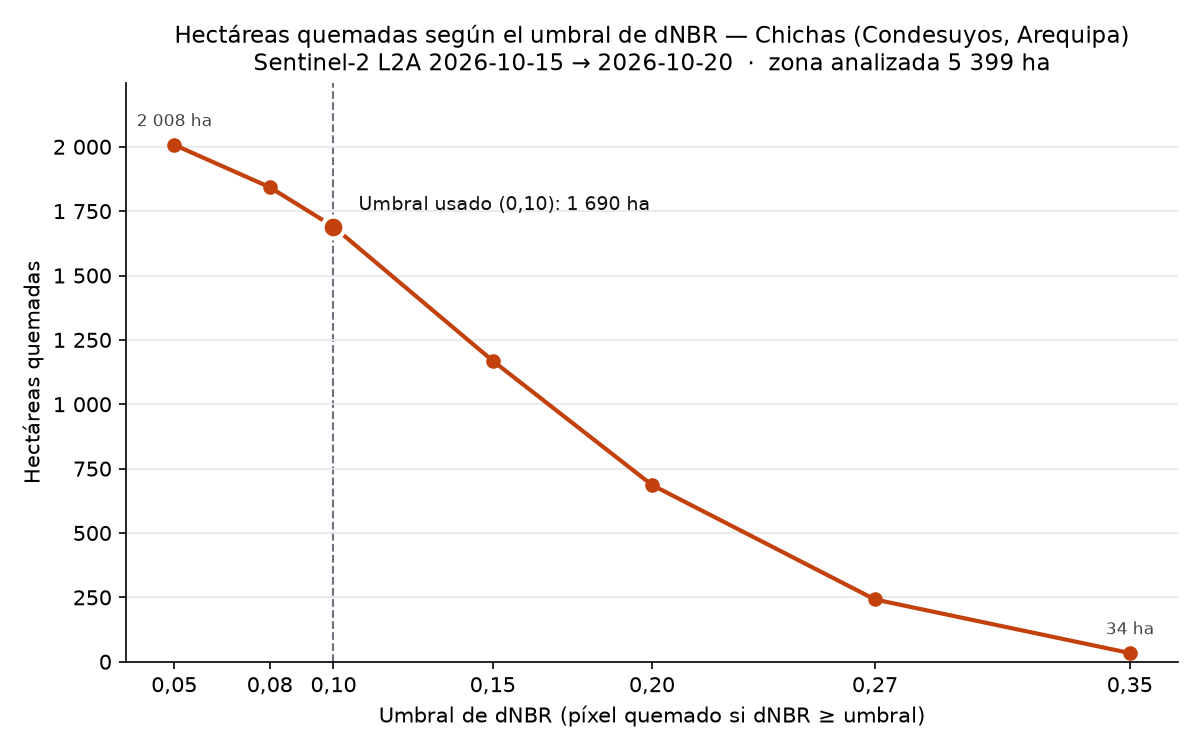
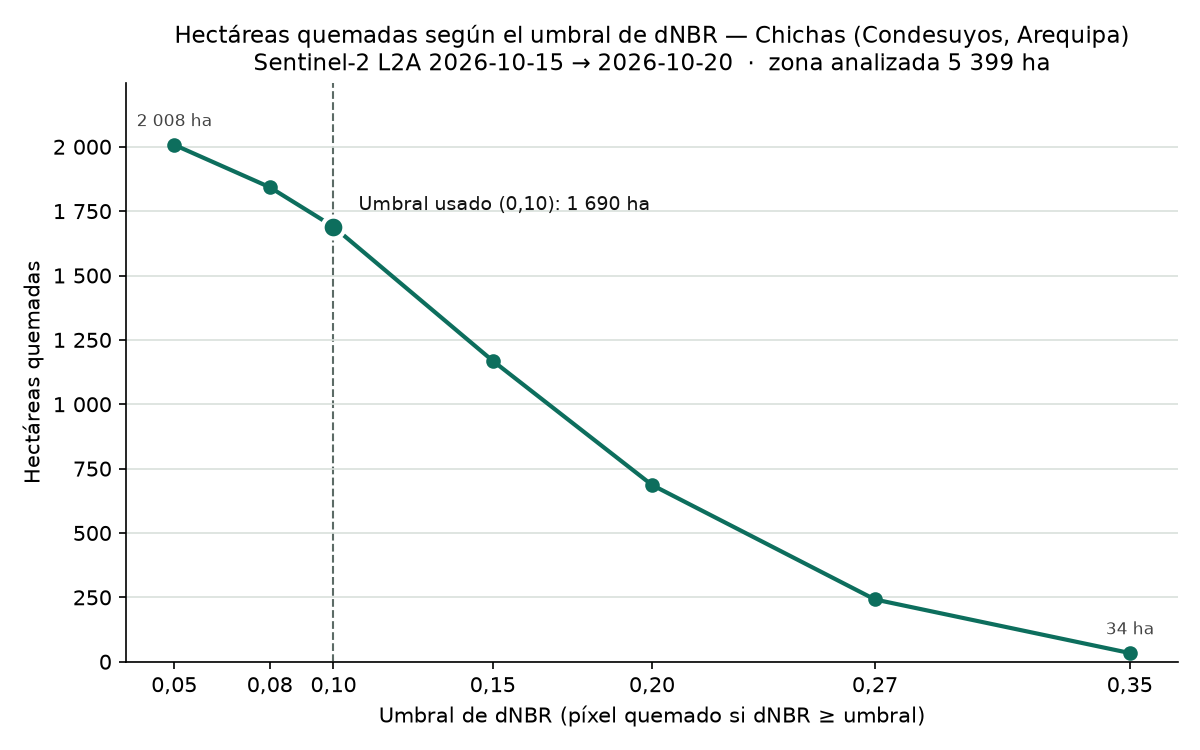
Parte 4: paleta nueva, modo oscuro, gráficos SVG en línea y mapa con los colores de severidad

diff --git a/index.html b/index.html
@@ -4,78 +4,84 @@
 <meta charset="utf-8">
 <meta name="viewport" content="width=device-width, initial-scale=1">
 <title>¿Qué se quemó? · Chichas, Arequipa</title>
-<meta name="description" content="De 8 637 focos de calor en el Perú a 1 690 hectáreas medidas en Chichas, Arequipa: qué tipo de suelo ardió.">
+<meta name="description" content="De 8 637 focos de calor en el Perú a 1 690 hectáreas medidas en Chichas, Arequipa: qué tipo de suelo ardió y si la zona arde cada año.">
 <style>
   :root {
-    --bg: #f7f3ec;
-    --text: #1a1613;
-    --muted: #5e554d;
-    --accent: #c0462a;
-    --blue: #2d5f7c;
-    --card: #fffdf9;
-    --line: #e2d9cc;
-    --highlight: #f6e3db;
-    --header-bg: #1a1613;
-    --header-text: #f7f3ec;
-    --sev-baja: #fde725;
-    --sev-modbaja: #fd8d3c;
-    --sev-modalta: #e31a1c;
-    --sev-alta: #67000d;
+    --bg: #f2f5f2;
+    --fg: #14201d;
+    --muted: #5c6b66;
+    --card: #ffffff;
+    --line: #d9e0dc;
+    --accent: #0d6e5d;
+    --accent2: #a85c32;
+    --on-accent: #ffffff;
+    --highlight: #dcebe6;
+    --header-bg: #14201d;
+    --header-fg: #f2f5f2;
+    --header-muted: #b6c4be;
+    --sev-baja: #f2d024;
+    --sev-modbaja: #f08c3a;
+    --sev-modalta: #d93a1f;
+    --sev-alta: #6e1708;
   }
   @media (prefers-color-scheme: dark) {
     :root {
-      --bg: #1a1613;
-      --text: #efe8dd;
-      --muted: #b3a89b;
-      --accent: #e0694c;
-      --blue: #7fb0cf;
-      --card: #24201c;
-      --line: #3a332d;
-      --highlight: #3b2620;
-      --header-bg: #0f0d0b;
-      --header-text: #f7f3ec;
+      --bg: #0e1715;
+      --fg: #e4ebe8;
+      --muted: #9aaba5;
+      --card: #16221f;
+      --line: #2a3a35;
+      --accent: #45b39d;
+      --accent2: #d98c5f;
+      --on-accent: #0e1715;
+      --highlight: #1b332d;
+      --header-bg: #14201d;
+      --header-fg: #f2f5f2;
+      --header-muted: #b6c4be;
     }
   }
   * { box-sizing: border-box; }
-  html { -webkit-text-size-adjust: 100%; }
+  html { -webkit-text-size-adjust: 100%; color-scheme: light dark; }
   body {
     margin: 0;
     background: var(--bg);
-    color: var(--text);
+    color: var(--fg);
     font-family: system-ui, -apple-system, "Segoe UI", Roboto, "Helvetica Neue", Arial, sans-serif;
     font-size: 17px;
     line-height: 1.6;
   }
   .wrap { max-width: 920px; margin: 0 auto; padding: 0 16px; }
-  header.top { background: var(--header-bg); color: var(--header-text); padding: 56px 0 44px; }
+  header.top { background: var(--header-bg); color: var(--header-fg); padding: 56px 0 44px; border-bottom: 1px solid var(--line); }
   header.top h1 { font-size: clamp(2.2rem, 7vw, 3.6rem); line-height: 1.05; margin: 0 0 16px; letter-spacing: -0.02em; }
-  header.top .bajada { font-size: clamp(1.05rem, 2.6vw, 1.3rem); max-width: 40em; margin: 0 0 22px; opacity: 0.92; }
-  header.top .firma { font-size: 0.9rem; color: #d9cfc1; border-top: 2px solid var(--accent); padding-top: 10px; display: inline-block; margin: 0; }
+  header.top .bajada { font-size: clamp(1.05rem, 2.6vw, 1.3rem); max-width: 40em; margin: 0 0 22px; }
+  header.top .firma { font-size: 0.9rem; color: var(--header-muted); border-top: 2px solid #45b39d; padding-top: 10px; display: inline-block; margin: 0; }
   main { padding-bottom: 32px; }
   section { padding: 36px 0 8px; }
   h2 { font-size: 1.5rem; line-height: 1.25; margin: 0 0 14px; }
   h2 .num { color: var(--accent); font-variant-numeric: tabular-nums; margin-right: 6px; }
   h3 { font-size: 1.08rem; margin: 0 0 6px; }
   p { margin: 0 0 14px; }
+  a { color: var(--accent); }
   .muted { color: var(--muted); }
   .cards { display: grid; grid-template-columns: repeat(auto-fit, minmax(240px, 1fr)); gap: 14px; margin: 20px 0 8px; }
   .card { background: var(--card); border: 1px solid var(--line); border-radius: 10px; padding: 18px; }
   .card .big { font-size: 2.4rem; font-weight: 750; line-height: 1.05; color: var(--accent); font-variant-numeric: tabular-nums; margin-bottom: 8px; }
   .card p { margin: 0; font-size: 0.95rem; }
-  .card.method h3 { color: var(--blue); }
+  .card.method h3 { color: var(--accent2); }
   figure { margin: 18px 0 0; }
   figure img { width: 100%; height: auto; display: block; border-radius: 8px; border: 1px solid var(--line); background: #fff; }
-  svg.chart { width: 100%; height: auto; display: block; background: var(--card); border: 1px solid var(--line); border-radius: 8px; }
+  .chart-scroll { overflow-x: auto; background: var(--card); border: 1px solid var(--line); border-radius: 8px; }
+  svg.chart { width: 100%; min-width: 540px; max-width: 760px; height: auto; display: block; margin: 0 auto; }
   svg.chart .grid { stroke: var(--line); stroke-width: 1; }
   svg.chart .ref { stroke: var(--muted); stroke-width: 1; stroke-dasharray: 4 4; }
-  svg.chart text { fill: var(--muted); font-size: 12px; font-family: inherit; }
-  svg.chart text.lbl { fill: var(--text); font-size: 13px; font-weight: 600; }
-  svg.chart text.axis { font-size: 13px; }
+  svg.chart text { fill: var(--muted); font-size: 13px; font-family: inherit; }
+  svg.chart text.lbl { fill: var(--fg); font-size: 14px; font-weight: 600; }
+  svg.chart text.axis { font-size: 14px; }
   svg.chart .bar { fill: var(--accent); }
-  svg.chart .bar.b2026 { fill: var(--blue); }
+  svg.chart .bar.b2026 { fill: var(--accent2); }
   svg.chart .hit { fill: transparent; }
-  svg.chart text.val { font-size: 11px; }
-  svg.chart text.val.strong { fill: var(--text); font-weight: 700; font-size: 13px; }
+  svg.chart text.val { font-size: 12px; }
+  svg.chart text.val.strong { fill: var(--fg); font-weight: 700; font-size: 14px; }
   svg.chart .line { fill: none; stroke-width: 2; }
   svg.chart .s1 { stroke: var(--accent); }
   svg.chart .dot.s1 { fill: var(--accent); stroke: var(--card); stroke-width: 2; }
@@ -85,20 +91,21 @@
   th, td { padding: 8px 10px; border-bottom: 1px solid var(--line); text-align: left; vertical-align: middle; }
   th { font-size: 0.8rem; text-transform: uppercase; letter-spacing: 0.04em; color: var(--muted); font-weight: 600; }
   td.n, th.n { text-align: right; font-variant-numeric: tabular-nums; white-space: nowrap; }
-  tr.total td { font-weight: 700; border-top: 2px solid var(--text); }
+  tr.total td { font-weight: 700; border-top: 2px solid var(--fg); }
   tr.dim td { color: var(--muted); }
   tr.medido td { background: var(--highlight); font-weight: 600; }
-  .tag { display: inline-block; background: var(--accent); color: #fff; font-size: 0.72rem; font-weight: 700; padding: 1px 7px; border-radius: 999px; margin-left: 6px; text-transform: uppercase; letter-spacing: 0.04em; vertical-align: 1px; }
+  .tag { display: inline-block; background: var(--accent); color: var(--on-accent); font-size: 0.72rem; font-weight: 700; padding: 1px 7px; border-radius: 999px; margin-left: 6px; text-transform: uppercase; letter-spacing: 0.04em; vertical-align: 1px; }
   .tag.gris { background: var(--muted); }
   td.bar { width: 32%; min-width: 90px; }
   .bar span { display: block; height: 14px; border-radius: 3px; min-width: 2px; }
   .sw { display: inline-block; width: 11px; height: 11px; border-radius: 2px; margin-right: 6px; vertical-align: -1px; border: 1px solid rgba(0,0,0,0.15); }
   .note { font-size: 0.9rem; color: var(--muted); border-left: 3px solid var(--line); padding-left: 12px; }
   .callout { background: var(--card); border: 1px solid var(--line); border-left: 5px solid var(--accent); border-radius: 8px; padding: 16px 18px; margin: 16px 0; }
+  .callout.alt { border-left-color: var(--accent2); }
   .callout p:last-child { margin-bottom: 0; }
-  ul.clean { padding-left: 1.2em; margin: 0 0 14px; }
-  ul.clean li { margin-bottom: 6px; }
-  code { font-family: ui-monospace, "Cascadia Mono", Consolas, monospace; font-size: 0.9em; }
+  ul.clean, ol.clean { padding-left: 1.2em; margin: 0 0 14px; }
+  ul.clean li, ol.clean li { margin-bottom: 6px; }
+  code { font-family: ui-monospace, "Cascadia Mono", Consolas, monospace; font-size: 0.9em; overflow-wrap: anywhere; }
   footer { border-top: 1px solid var(--line); padding: 22px 0 40px; font-size: 0.88rem; color: var(--muted); }
   footer p { margin: 0 0 8px; }
   @media (max-width: 560px) {
@@ -106,6 +113,11 @@
     header.top { padding: 40px 0 32px; }
     th, td { padding: 7px 6px; }
     .card .big { font-size: 2rem; }
+    svg.chart { min-width: 0; }
+    svg.chart text, svg.chart text.axis, svg.chart text.lbl { font-size: 20px; }
+    svg.chart text.val { font-size: 18px; }
+    svg.chart text.val.strong { font-size: 22px; }
+    svg.chart .t-opc { display: none; }
   }
 </style>
 </head>
@@ -114,7 +126,7 @@
 <header class="top">
   <div class="wrap">
     <h1>¿Qué se quemó?</h1>
-    <p class="bajada">De 8&nbsp;637 focos de calor en todo el Perú a 1&nbsp;690 hectáreas medidas en Chichas, Arequipa. No ardió bosque ni cultivo: ardió pastizal.</p>
+    <p class="bajada">De 8&nbsp;637 focos de calor en todo el Perú a 1&nbsp;690 hectáreas medidas en Chichas, Arequipa. No ardió bosque ni cultivo: ardió pastizal, en una zona donde el satélite no había visto fuego en 14 años.</p>
     <p class="firma">Gabriela Pozo · Reto C · Universidad del Pacífico</p>
   </div>
 </header>
@@ -182,10 +194,10 @@
         </thead>
         <tbody>
           <tr><td>Pastizal</td><td class="n">1&nbsp;223,0</td><td class="n">72,4&nbsp;%</td><td class="bar"><span style="width:72.4%;background:var(--accent)"></span></td></tr>
-          <tr><td>Matorral</td><td class="n">455,6</td><td class="n">27,0&nbsp;%</td><td class="bar"><span style="width:27%;background:var(--blue)"></span></td></tr>
-          <tr><td>Suelo desnudo</td><td class="n">10,3</td><td class="n">0,6&nbsp;%</td><td class="bar"><span style="width:0.6%;background:var(--blue)"></span></td></tr>
-          <tr><td>Agua</td><td class="n">0,4</td><td class="n">0,0&nbsp;%</td><td class="bar"><span style="width:0;background:var(--blue)"></span></td></tr>
-          <tr><td>Bosque</td><td class="n">0,1</td><td class="n">0,0&nbsp;%</td><td class="bar"><span style="width:0;background:var(--blue)"></span></td></tr>
+          <tr><td>Matorral</td><td class="n">455,6</td><td class="n">27,0&nbsp;%</td><td class="bar"><span style="width:27%;background:var(--accent2)"></span></td></tr>
+          <tr><td>Suelo desnudo</td><td class="n">10,3</td><td class="n">0,6&nbsp;%</td><td class="bar"><span style="width:0.6%;background:var(--accent2)"></span></td></tr>
+          <tr><td>Agua</td><td class="n">0,4</td><td class="n">0,0&nbsp;%</td><td class="bar"><span style="width:0;background:var(--accent2)"></span></td></tr>
+          <tr><td>Bosque</td><td class="n">0,1</td><td class="n">0,0&nbsp;%</td><td class="bar"><span style="width:0;background:var(--accent2)"></span></td></tr>
           <tr><td>Cultivo</td><td class="n">0,0</td><td class="n">0,0&nbsp;%</td><td class="bar"></td></tr>
           <tr class="total"><td>Total</td><td class="n">1&nbsp;689,4</td><td class="n">100&nbsp;%</td><td></td></tr>
         </tbody>
@@ -208,19 +220,20 @@
     <h2><span class="num">6</span>Cuánto depende del umbral</h2>
     <p>Con el corte estándar de 0,10 el área quemada es de 1&nbsp;690&nbsp;ha. Pero la cifra es muy elástica: entre 0,05 y 0,35 va de 2&nbsp;008&nbsp;ha a 34&nbsp;ha, un factor de 59.</p>
     <figure>
+<div class="chart-scroll">
 <svg class="chart" viewBox="0 0 640 330" role="img" aria-label="Hectáreas quemadas según el umbral de dNBR">
 <line class="grid" x1="62" x2="620" y1="280.0" y2="280.0"/><text class="tick" x="54" y="284.0" text-anchor="end">0</text>
 <line class="grid" x1="62" x2="620" y1="251.6" y2="251.6"/><text class="tick" x="54" y="255.6" text-anchor="end">250</text>
 <line class="grid" x1="62" x2="620" y1="223.1" y2="223.1"/><text class="tick" x="54" y="227.1" text-anchor="end">500</text>
 <line class="grid" x1="62" x2="620" y1="194.7" y2="194.7"/><text class="tick" x="54" y="198.7" text-anchor="end">750</text>
-<line class="grid" x1="62" x2="620" y1="166.2" y2="166.2"/><text class="tick" x="54" y="170.2" text-anchor="end">1&#8239;000</text>
-<line class="grid" x1="62" x2="620" y1="137.8" y2="137.8"/><text class="tick" x="54" y="141.8" text-anchor="end">1&#8239;250</text>
-<line class="grid" x1="62" x2="620" y1="109.3" y2="109.3"/><text class="tick" x="54" y="113.3" text-anchor="end">1&#8239;500</text>
-<line class="grid" x1="62" x2="620" y1="80.9" y2="80.9"/><text class="tick" x="54" y="84.9" text-anchor="end">1&#8239;750</text>
-<line class="grid" x1="62" x2="620" y1="52.4" y2="52.4"/><text class="tick" x="54" y="56.4" text-anchor="end">2&#8239;000</text>
-<line class="grid" x1="62" x2="620" y1="24.0" y2="24.0"/><text class="tick" x="54" y="28.0" text-anchor="end">2&#8239;250</text>
+<line class="grid" x1="62" x2="620" y1="166.2" y2="166.2"/><text class="tick" x="54" y="170.2" text-anchor="end">1&#160;000</text>
+<line class="grid" x1="62" x2="620" y1="137.8" y2="137.8"/><text class="tick" x="54" y="141.8" text-anchor="end">1&#160;250</text>
+<line class="grid" x1="62" x2="620" y1="109.3" y2="109.3"/><text class="tick" x="54" y="113.3" text-anchor="end">1&#160;500</text>
+<line class="grid" x1="62" x2="620" y1="80.9" y2="80.9"/><text class="tick" x="54" y="84.9" text-anchor="end">1&#160;750</text>
+<line class="grid" x1="62" x2="620" y1="52.4" y2="52.4"/><text class="tick" x="54" y="56.4" text-anchor="end">2&#160;000</text>
+<line class="grid" x1="62" x2="620" y1="24.0" y2="24.0"/><text class="tick" x="54" y="28.0" text-anchor="end">2&#160;250</text>
 <text class="tick" x="62.0" y="298" text-anchor="middle">0,05</text>
-<text class="tick" x="117.8" y="298" text-anchor="middle">0,08</text>
+<text class="tick t-opc" x="117.8" y="298" text-anchor="middle">0,08</text>
 <text class="tick" x="155.0" y="298" text-anchor="middle">0,10</text>
 <text class="tick" x="248.0" y="298" text-anchor="middle">0,15</text>
 <text class="tick" x="341.0" y="298" text-anchor="middle">0,20</text>
@@ -229,15 +242,16 @@
 <line class="ref" x1="155.0" x2="155.0" y1="24" y2="280"/>
 <text class="axis" x="341.0" y="322" text-anchor="middle">Umbral de dNBR</text>
 <polyline class="line s1" points="62.0,51.6 117.8,70.3 155.0,87.8 248.0,147.0 341.0,201.9 471.2,252.5 620.0,276.1"/>
-<circle class="dot s1" cx="62.0" cy="51.6" r="4.5"><title>Chichas · umbral 0,05: 2&#8239;007,5 ha</title></circle>
-<circle class="dot s1" cx="117.8" cy="70.3" r="4.5"><title>Chichas · umbral 0,08: 1&#8239;842,9 ha</title></circle>
-<circle class="dot s1" cx="155.0" cy="87.8" r="6"><title>Chichas · umbral 0,10: 1&#8239;689,5 ha</title></circle>
-<circle class="dot s1" cx="248.0" cy="147.0" r="4.5"><title>Chichas · umbral 0,15: 1&#8239;168,9 ha</title></circle>
+<circle class="dot s1" cx="62.0" cy="51.6" r="4.5"><title>Chichas · umbral 0,05: 2&#160;007,5 ha</title></circle>
+<circle class="dot s1" cx="117.8" cy="70.3" r="4.5"><title>Chichas · umbral 0,08: 1&#160;842,9 ha</title></circle>
+<circle class="dot s1" cx="155.0" cy="87.8" r="6"><title>Chichas · umbral 0,10: 1&#160;689,5 ha</title></circle>
+<circle class="dot s1" cx="248.0" cy="147.0" r="4.5"><title>Chichas · umbral 0,15: 1&#160;168,9 ha</title></circle>
 <circle class="dot s1" cx="341.0" cy="201.9" r="4.5"><title>Chichas · umbral 0,20: 686,6 ha</title></circle>
 <circle class="dot s1" cx="471.2" cy="252.5" r="4.5"><title>Chichas · umbral 0,27: 241,9 ha</title></circle>
 <circle class="dot s1" cx="620.0" cy="276.1" r="4.5"><title>Chichas · umbral 0,35: 33,9 ha</title></circle>
-<text class="lbl" x="167.0" y="77.8">Umbral usado (0,10): 1&#8239;690 ha</text>
+<text class="lbl" x="167.0" y="77.8">Umbral usado (0,10): 1&#160;690 ha</text>
 </svg>
+</div>
 
       <figcaption>Hectáreas quemadas en Chichas según el umbral de dNBR, en la misma zona de 5&nbsp;399&nbsp;ha y con el mismo par de imágenes. La línea discontinua marca el umbral usado (0,10).</figcaption>
     </figure>
@@ -266,6 +280,7 @@
     <h2><span class="num">7</span>¿Arde cada año o fue excepcional?</h2>
     <p>Si la misma zona ardiera cada temporada seca, el incendio de 2026 sería compatible con una quema de manejo de pastos. Para verlo se contaron los focos del satélite Suomi-NPP de cada año, de 2012 a 2025, dentro del área que ardió en 2026 (1&nbsp;689,5&nbsp;ha) y dentro de esa área más 1&nbsp;km (5&nbsp;855,2&nbsp;ha).</p>
     <figure>
+<div class="chart-scroll">
 <svg class="chart" viewBox="0 0 640 300" role="img" aria-label="Focos S-NPP por año en el área quemada de Chichas (polígono más 1 km), 2012 a 2026">
 <line class="grid" x1="44" x2="628" y1="248.0" y2="248.0"/><text class="tick" x="38" y="252.0" text-anchor="end">0</text>
 <line class="grid" x1="44" x2="628" y1="216.0" y2="216.0"/><text class="tick" x="38" y="220.0" text-anchor="end">10</text>
@@ -278,7 +293,7 @@
 <rect class="hit" x="49.8" y="24" width="27.3" height="224.0"><title>2012: 0 focos a ≤1 km del área quemada, 0 dentro del polígono</title></rect>
 <text class="val" x="63.5" y="243.0" text-anchor="middle">0</text>
 <text class="tick" x="63.5" y="264" text-anchor="end" transform="rotate(-45 63.5 264)">2012</text>
-<path class="bar" d="M88.8,248.0 V247.8 q0,-3 3,-3 H113.0 q3,0 3,3 V248.0 Z"><title>2013: 1 focos a ≤1 km del área quemada, 0 dentro del polígono</title></path>
+<path class="bar" d="M88.8,248.0 V247.8 q0,-3 3,-3 H113.0 q3,0 3,3 V248.0 Z"><title>2013: 1 foco a ≤1 km del área quemada, 0 dentro del polígono</title></path>
 <text class="val" x="102.4" y="239.8" text-anchor="middle">1</text>
 <text class="tick" x="102.4" y="264" text-anchor="end" transform="rotate(-45 102.4 264)">2013</text>
 <rect class="hit" x="127.7" y="24" width="27.3" height="224.0"><title>2014: 0 focos a ≤1 km del área quemada, 0 dentro del polígono</title></rect>
@@ -321,6 +336,7 @@
 <text class="val strong" x="608.5" y="47.8" text-anchor="middle">61</text>
 <text class="tick" x="608.5" y="264" text-anchor="end" transform="rotate(-45 608.5 264)">2026*</text>
 </svg>
+</div>
 
       <figcaption>Focos S-NPP de confianza nominal o alta por año, en el área quemada en 2026 más 1&nbsp;km. *2026: solo del 14 al 21 de octubre (CSV de 7 días). 2012–2025: año completo, archivo anual de NASA FIRMS.</figcaption>
     </figure>
@@ -374,7 +390,7 @@
       </table>
     </div>
     <p class="note">“Zona inválida” suma nubes, sombras, cirros y píxeles fuera de la cobertura del tile.</p>
-    <p>Medir la mitad sin nubes daría una cifra que no se puede comparar con la de Chichas, así que no se forzó. Es el mismo problema que dejó fuera a Callería: los dos candidatos amazónicos quedaron sin imagen posterior. En la Amazonía, octubre es el pico de la temporada de quemas y también el inicio de las lluvias, así que la nubosidad impide medir justo cuando más arde. Eso sesga cualquier análisis óptico como este hacia los incendios andinos.</p>
+    <p>Medir la mitad sin nubes daría una cifra que no se puede comparar con la de Chichas, así que no se forzó. Es el mismo problema que dejó fuera a Callería: los dos candidatos amazónicos quedaron sin imagen posterior. En la Amazonía, octubre todavía es temporada de quemas y ya empiezan las lluvias, así que la nubosidad impide medir justo cuando más arde. Eso sesga cualquier análisis óptico como este hacia los incendios andinos.</p>
     <div class="callout">
       <p><strong>La hipótesis queda sin contrastar.</strong> Se esperaba que en bosque la severidad saliera alta y la curva de sensibilidad plana, y que en pastizal saliera baja y la curva empinada. Chichas es compatible con la mitad de pastizal (85,7&nbsp;% de severidad baja, factor de 59 entre umbrales), pero sin un caso de bosque no hay comparación: un solo caso no respalda ni refuta la hipótesis.</p>
     </div>
@@ -430,6 +446,7 @@
       <div class="card method"><h3>Sentinel-2 L2A</h3><p>Imágenes de reflectancia de superficie de Microsoft Planetary Computer, bandas B8A y B12 a 20&nbsp;m. Se elige la imagen con menos nubes sobre la zona, antes y después del fuego.</p></div>
       <div class="card method"><h3>dNBR</h3><p><code>NBR = (NIR − SWIR2) / (NIR + SWIR2)</code>. El dNBR es el NBR de antes menos el de después: cuanto más alto, más vegetación se perdió.</p></div>
       <div class="card method"><h3>Máscara SCL</h3><p>La capa de clasificación de escena excluye nubes, sombras, cirros, agua y píxeles sin dato en cualquiera de las dos fechas.</p></div>
+      <div class="card method"><h3>Recurrencia</h3><p>Archivo anual de NASA FIRMS para Perú, solo Suomi-NPP, 2012–2025. Se cuentan los focos de cada año dentro del polígono quemado en 2026 y a 1&nbsp;km de él.</p></div>
       <div class="card method"><h3>WorldCover 2021</h3><p>Mapa global de cobertura del suelo de la ESA, a 10&nbsp;m, remuestreado a la rejilla de 20&nbsp;m y cruzado con los píxeles quemados.</p></div>
     </div>
   </section>
@@ -453,8 +470,8 @@
 <footer>
   <div class="wrap">
     <p>Herramienta independiente con datos públicos; no reemplaza los reportes del COEN, INDECI, SERFOR ni SERNANP.</p>
-    <p>Fuentes: NASA FIRMS, Copernicus Sentinel-2 y ESA WorldCover vía Microsoft Planetary Computer. Corte: 21 de octubre de 2026.</p>
-    <p>Código y tablas: <code>src/</code> y <code>outputs/</code> en este repositorio.</p>
+    <p>Fuentes: NASA FIRMS (focos NRT y archivo anual S-NPP 2012–2025), Copernicus Sentinel-2 y ESA WorldCover vía Microsoft Planetary Computer. Corte: 21 de octubre de 2026.</p>
+    <p>Código y tablas: <code>src/</code> y <code>outputs/</code> en este repositorio; el README explica cómo reproducir todo.</p>
   </div>
 </footer>
 

diff --git a/src/paso5_sensibilidad.py b/src/paso5_sensibilidad.py
@@ -33,10 +33,10 @@ def main():
     print(tabla.to_string(index=False))
 
     fig, ax = plt.subplots(figsize=(8, 5), dpi=150)
-    ax.plot(tabla.umbral_dnbr, tabla.hectareas, color="#c2410c", lw=2, marker="o", ms=6, zorder=3)
+    ax.plot(tabla.umbral_dnbr, tabla.hectareas, color="#0d6e5d", lw=2, marker="o", ms=6, zorder=3)
     u = tabla[tabla.usado].iloc[0]
-    ax.axvline(USADO, color="#6b7280", lw=1, ls="--", zorder=1)
-    ax.scatter([USADO], [u.hectareas], s=110, facecolor="#c2410c", edgecolor="white", lw=2, zorder=4)
+    ax.axvline(USADO, color="#5c6b66", lw=1, ls="--", zorder=1)
+    ax.scatter([USADO], [u.hectareas], s=110, facecolor="#0d6e5d", edgecolor="white", lw=2, zorder=4)
     ax.annotate(f"Umbral usado (0,10): {miles(u.hectareas)} ha",
                 (USADO, u.hectareas), xytext=(12, 8), textcoords="offset points", fontsize=9, color="#111")
     for x, y in [(tabla.umbral_dnbr.iloc[0], tabla.hectareas.iloc[0]),
@@ -49,7 +49,7 @@ def main():
     ax.set_ylabel("Hectáreas quemadas")
     ax.set_ylim(0, tabla.hectareas.max() * 1.12)
     ax.yaxis.set_major_formatter(matplotlib.ticker.FuncFormatter(lambda v, _: miles(v)))
-    ax.grid(axis="y", color="#e5e7eb", lw=0.8)
+    ax.grid(axis="y", color="#d9e0dc", lw=0.8)
     for s in ("top", "right"):
         ax.spines[s].set_visible(False)
     ax.set_title(f"Hectáreas quemadas según el umbral de dNBR — {nombre}\n"

diff --git a/src/paso2_4_medir.py b/src/paso2_4_medir.py
@@ -179,7 +179,7 @@ def main():
     # Paso 4: mapa
     tr, w, h = rejilla
     ext = [tr.c / 1000, (tr.c + w * RES) / 1000, (tr.f - h * RES) / 1000, tr.f / 1000]
-    colores = ["#fde725", "#fd8d3c", "#e31a1c", "#67000d"]
+    colores = ["#f2d024", "#f08c3a", "#d93a1f", "#6e1708"]
     fig, ax = plt.subplots(figsize=(10, 9), dpi=150)
     fondo = np.where(dentro, nir_d, np.nan)
     ax.imshow(fondo, cmap="Greys_r", extent=ext,
@@ -197,7 +197,8 @@ def main():
                 Line2D([], [], marker="o", ls="", mfc="#00e5ff", mec="black", label=f"Focos VIIRS ({len(p)})"),
                 Line2D([], [], color="black", lw=1.2, label="Zona analizada (focos + 1 km)")]
     ax.legend(handles=leyenda, loc="lower left", fontsize=9, framealpha=0.9)
-    ax.set_title(f"Área quemada (dNBR ≥ 0.10): {quemado.sum() * ha_px:,.0f} ha — {nombre}\n"
+    ha_txt = f"{quemado.sum() * ha_px:,.1f}".replace(",", " ").replace(".", ",")
+    ax.set_title(f"Área quemada (dNBR ≥ 0,10): {ha_txt} ha — {nombre}\n"
                  f"Sentinel-2 L2A {a.fecha} → {d.fecha}  ·  fondo: NIR posterior", fontsize=11)
     ax.set_xlabel("Este UTM 18S (km)")
     ax.set_ylabel("Norte UTM 18S (km)")

diff --git a/README.md b/README.md
@@ -131,7 +131,7 @@ de la zona inválida:
 
 No se forzó la medición con la mitad sin nubes, porque la cifra no sería comparable
 con la de Chichas. Es el mismo problema que dejó fuera a Callería. En la Amazonía,
-octubre es el pico de la temporada de quemas y también el inicio de las lluvias: la
+octubre todavía es temporada de quemas y ya empiezan las lluvias: la
 nubosidad impide medir justo cuando más arde, y eso sesga el análisis óptico hacia
 los incendios andinos.
 
